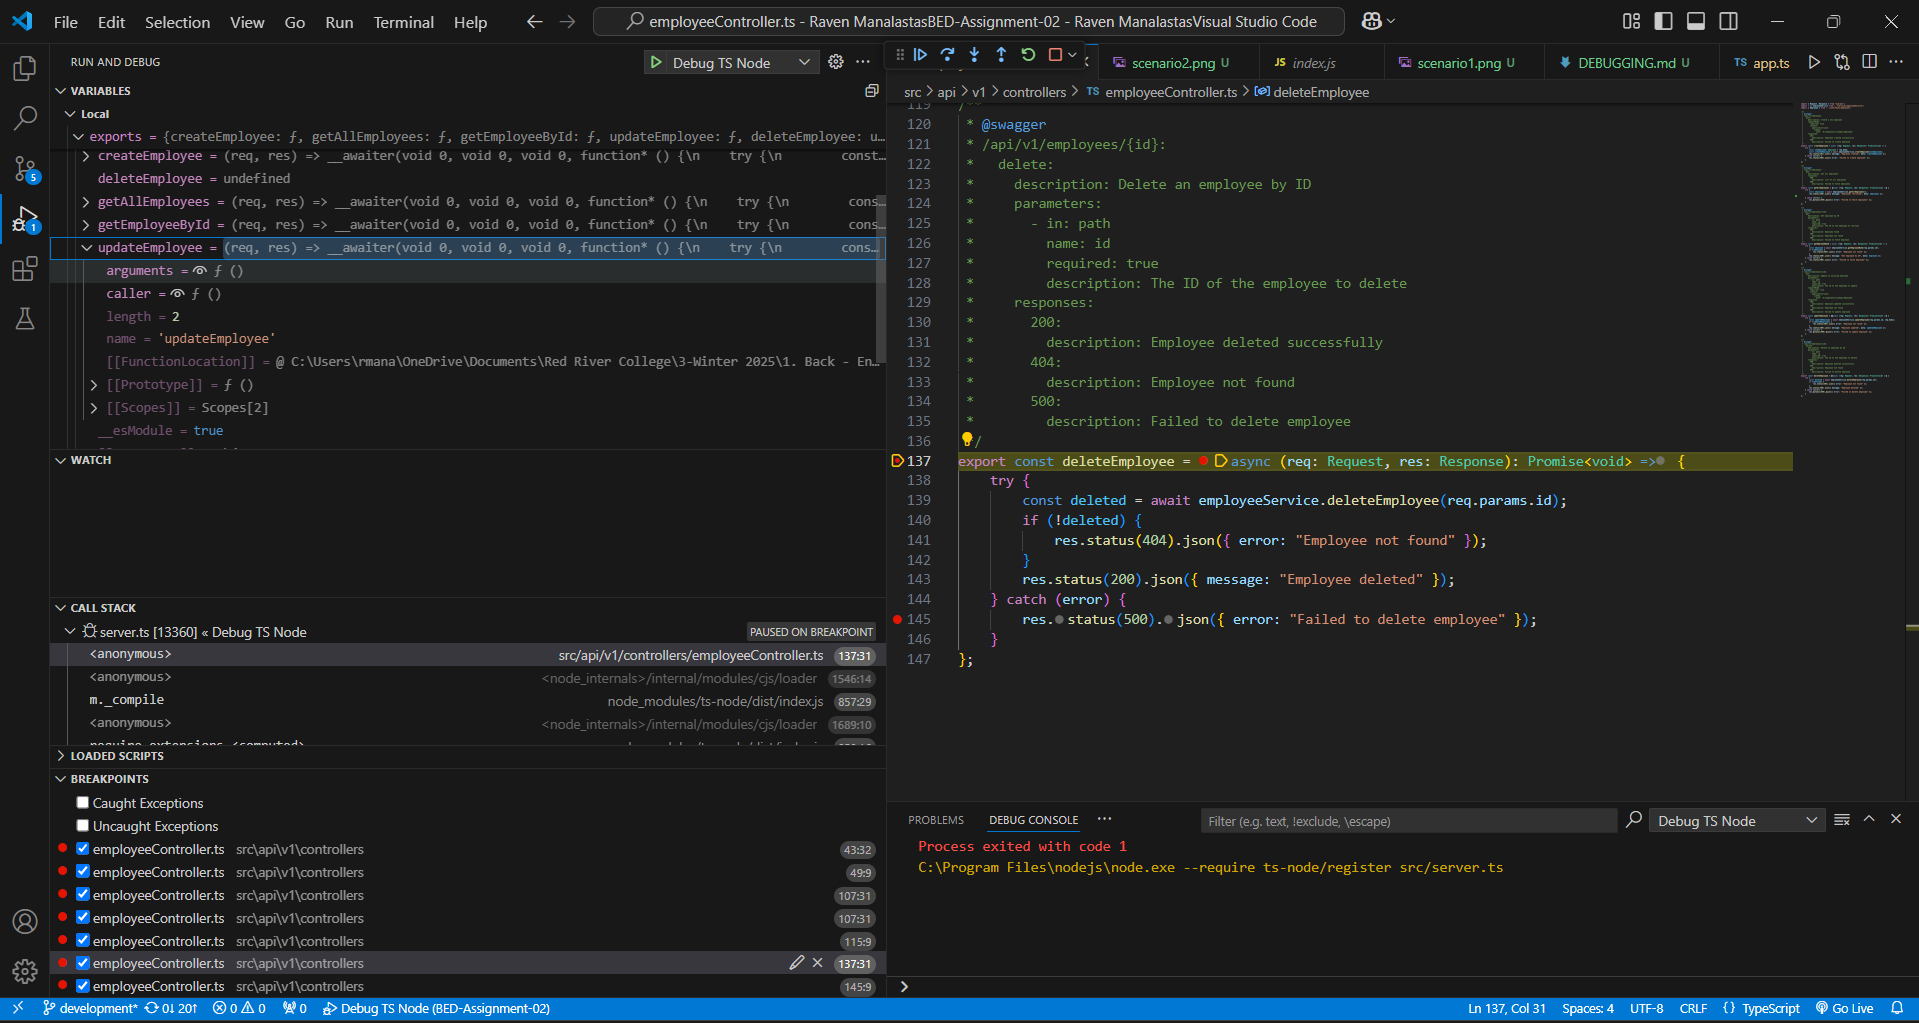
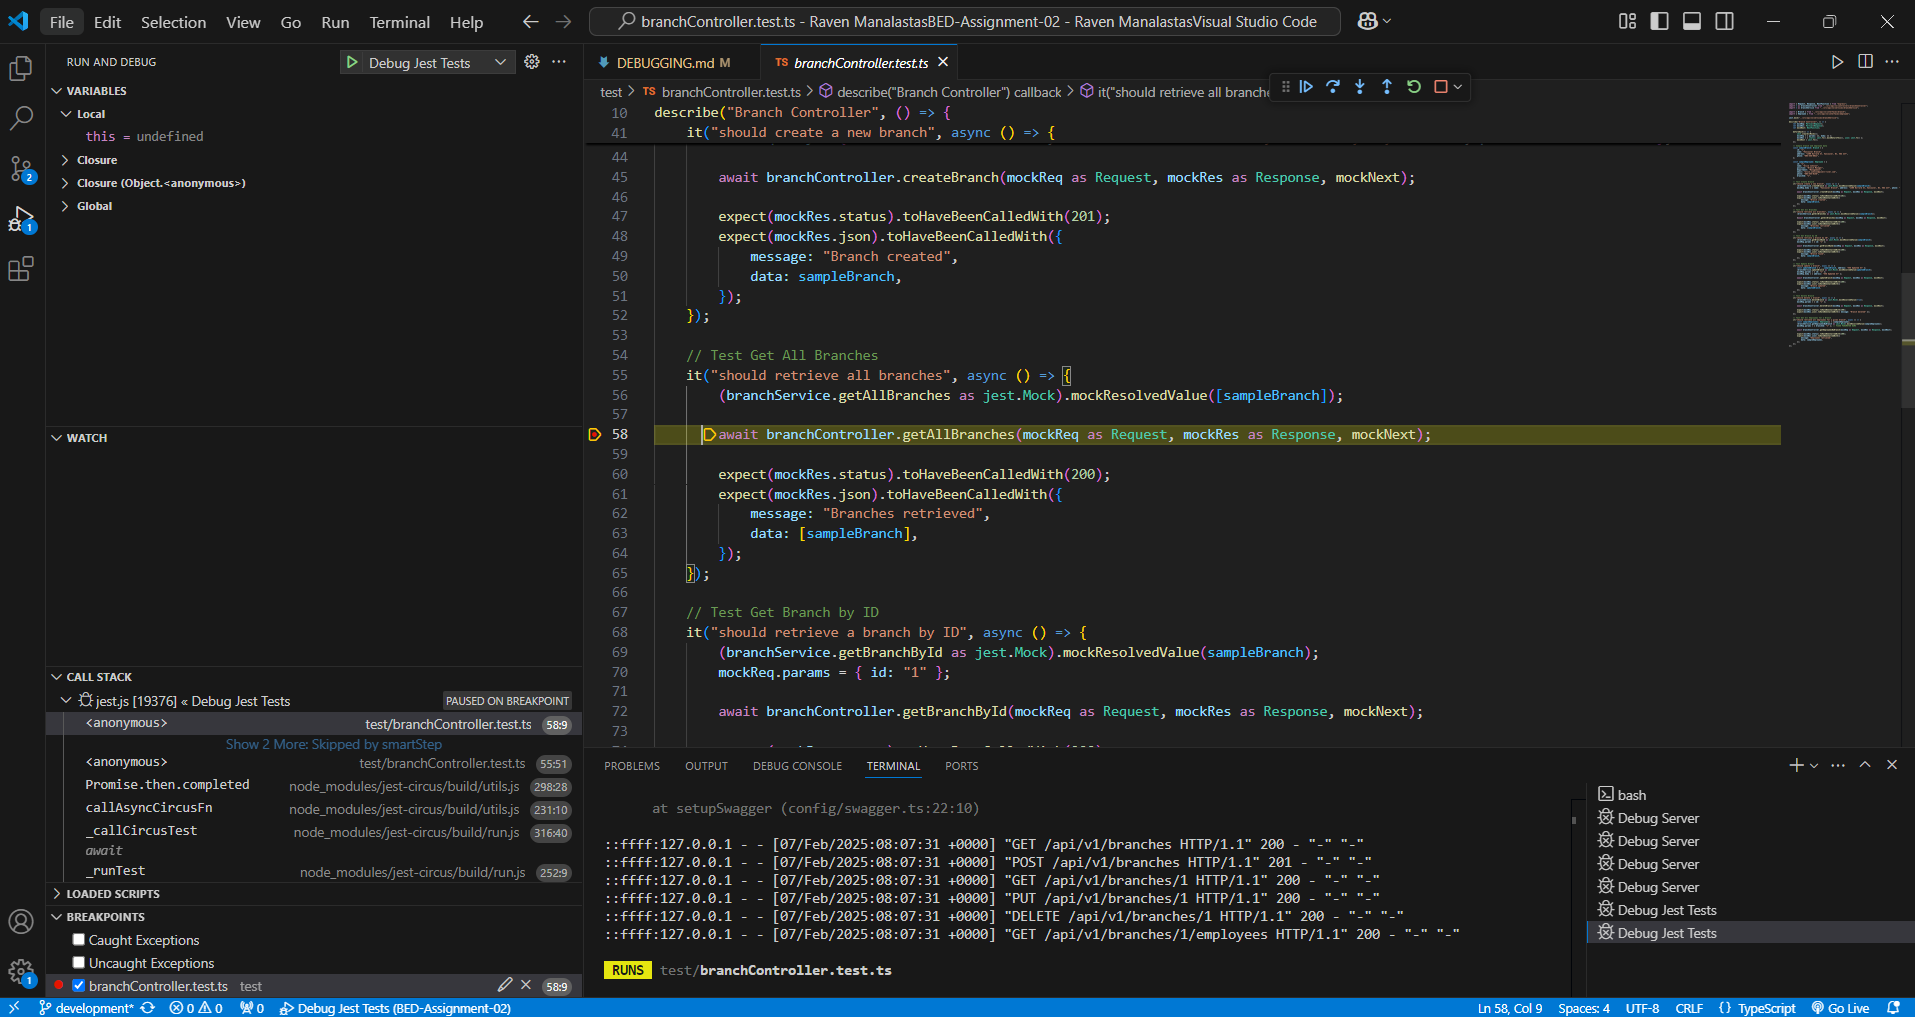
feat: Updated the debugging screenshots.

diff --git a/debugging/DEBUGGING.md b/debugging/DEBUGGING.md
@@ -33,41 +33,40 @@
 
 ---
 
-## Scenario 2: **Debugging Update Branch Process**
+## Scenario 2: **Debugging Employee Deletion Process**
 
-- **Breakpoint Location:** `branchController.ts`, line 87 (`updateBranch` function)
-- **Objective:** Debug the branch update flow to see how the `PUT` request is handled, and observe the result when attempting to update a non-existing branch.
+- **Breakpoint Location:** `employeeController.ts`, line 110 (`deleteEmployee` function)
+- **Objective:** Debug the employee deletion flow to see how the `DELETE` request is handled, and observe the result when attempting to delete a non-existing employee.
 
 ### Debugger Observations
 
 - **Variable States:**
-  - `updated`: Boolean indicating whether the branch was successfully updated.
+  - `deleted`: Boolean indicating whether the employee was successfully deleted.
   
 - **Call Stack:**
-  - The controller calls `updateBranch` in `branchService.ts` with the branch ID and new data to update the branch.
+  - The controller calls `deleteEmployee` in `employeeService.ts` with the employee ID to remove the employee.
   
 - **Behavior:**
-  - The debugger shows that if the branch ID is valid, the `updated` variable is set to `true`.
-  - If the branch does not exist, `updated` is `false`, and a `404` response is returned.
+  - The debugger shows that if the employee ID is valid, the `deleted` variable is set to `true`.
+  - If the employee does not exist, `deleted` is `false`, and a `404` response is returned.
   
 ### Analysis:
 - **What did you learn from this scenario?**
-  - I confirmed that the update process works as expected, and the API correctly handles cases where the branch does not exist.
+  - I confirmed that the deletion process works as expected, and the API correctly handles cases where the employee does not exist.
 
 - **Did you observe any unexpected behavior?**
-  - No, the behavior was expected. However, it's important to handle cases where no branch is found in a user-friendly manner.
+  - No, the behavior was expected. However, it's important to handle cases where no employee is found in a user-friendly manner.
 
 - **Areas for improvement or refactoring?**
   - Adding more error handling around potential database issues could improve the robustness of the system.
 
 - **How does this enhance your understanding of the overall project?**
-  - This scenario helped me understand how to manage updates in RESTful APIs and handle cases where the item to be updated does not exist.
-
+  - This scenario helped me understand how to manage deletion in RESTful APIs and handle cases where the item to be deleted does not exist.
 ---
 
 ## Scenario 3: **Debugging Get All Branches Test**
 
-- **Breakpoint Location:** `branchController.test.ts`, line 50 - 60 (test for `getAllBranches` function)
+- **Breakpoint Location:** `branchController.test.ts`, line 58 (test for `getAllBranches` function)
 - **Objective:** Investigate how the unit test for the `getAllBranches` function works and observe the behavior when retrieving all branches.
 
 ### Debugger Observations
